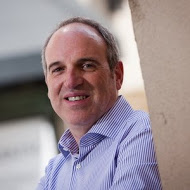
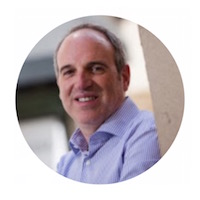
updated headshots

diff --git a/index.html b/index.html
@@ -299,7 +299,7 @@
             <div class="section-content">
               <div class="row">
                 <div class="col-md-8 col-md-offset-2">
-                  <img src="imgs/robleh.png">
+                  <img src="imgs/robleh.jpg">
                   <h3>Robleh Jama</h3>
                   <p>
                     Founder
